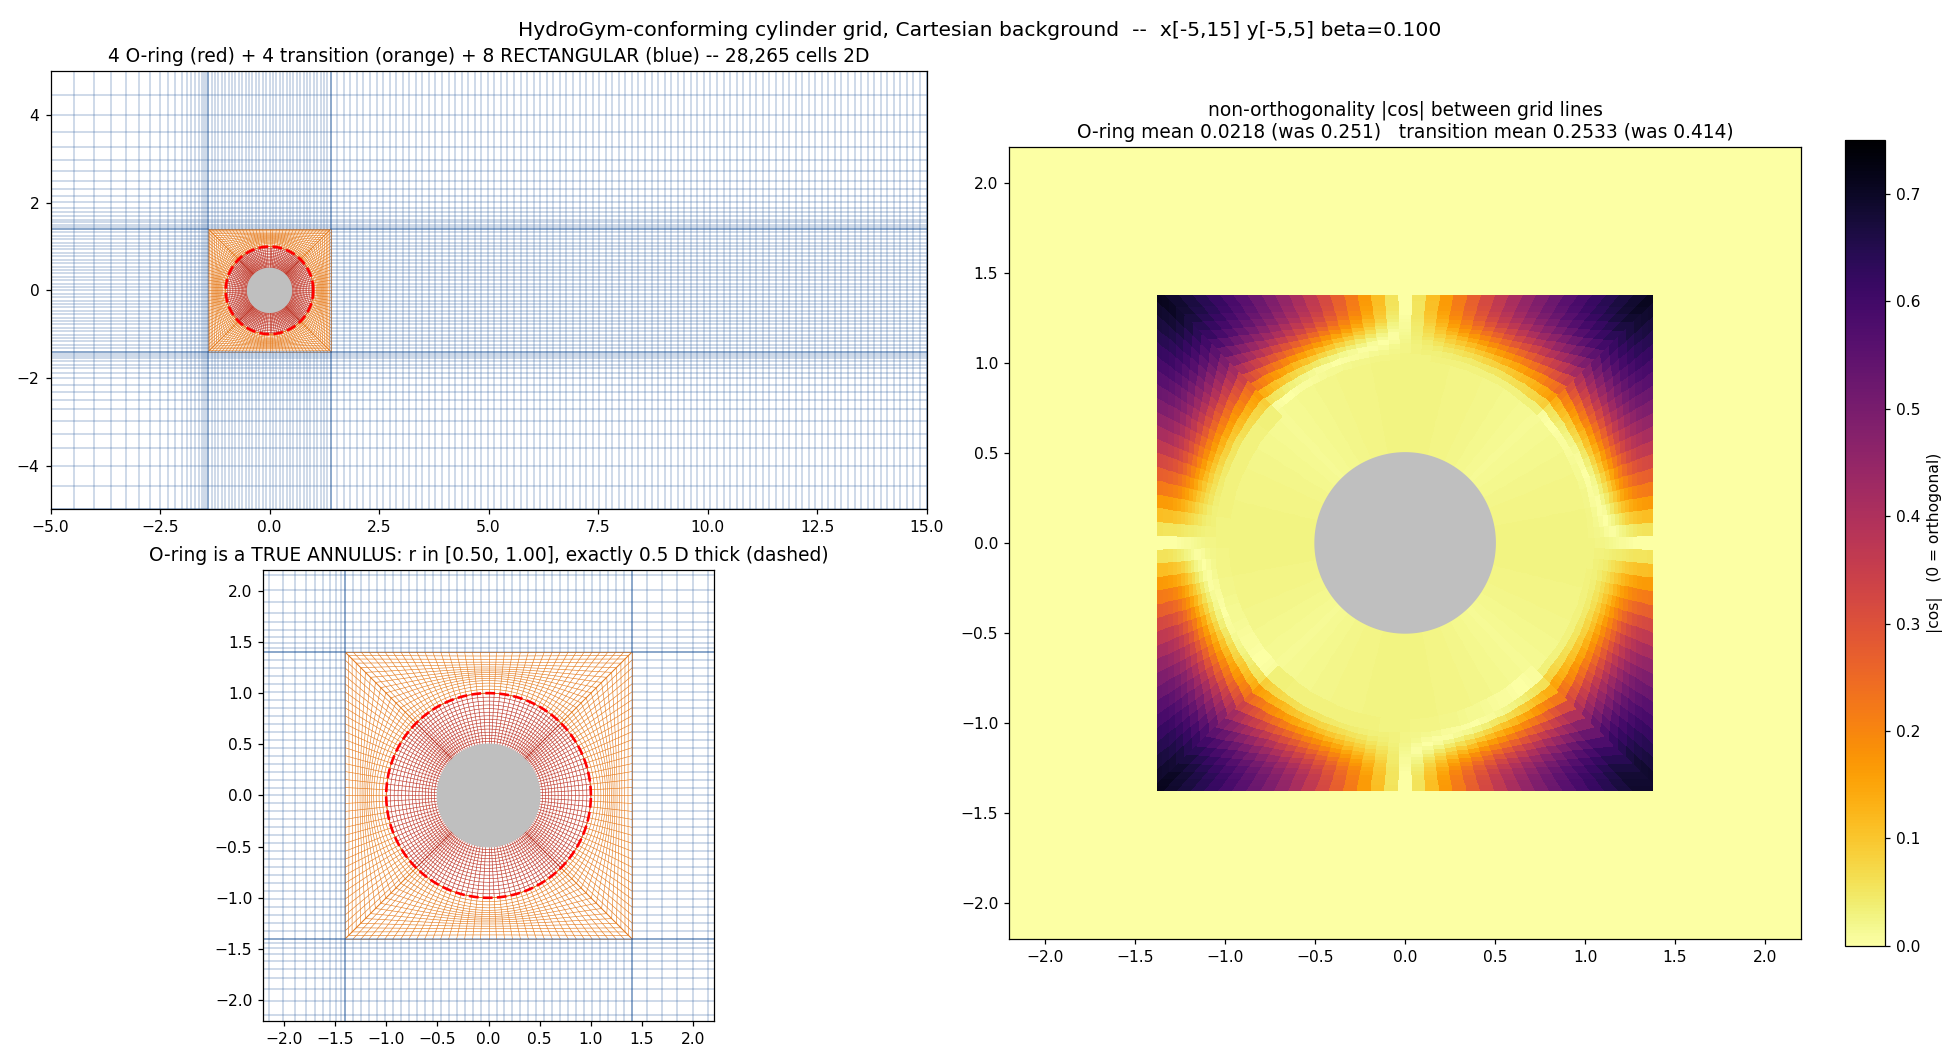
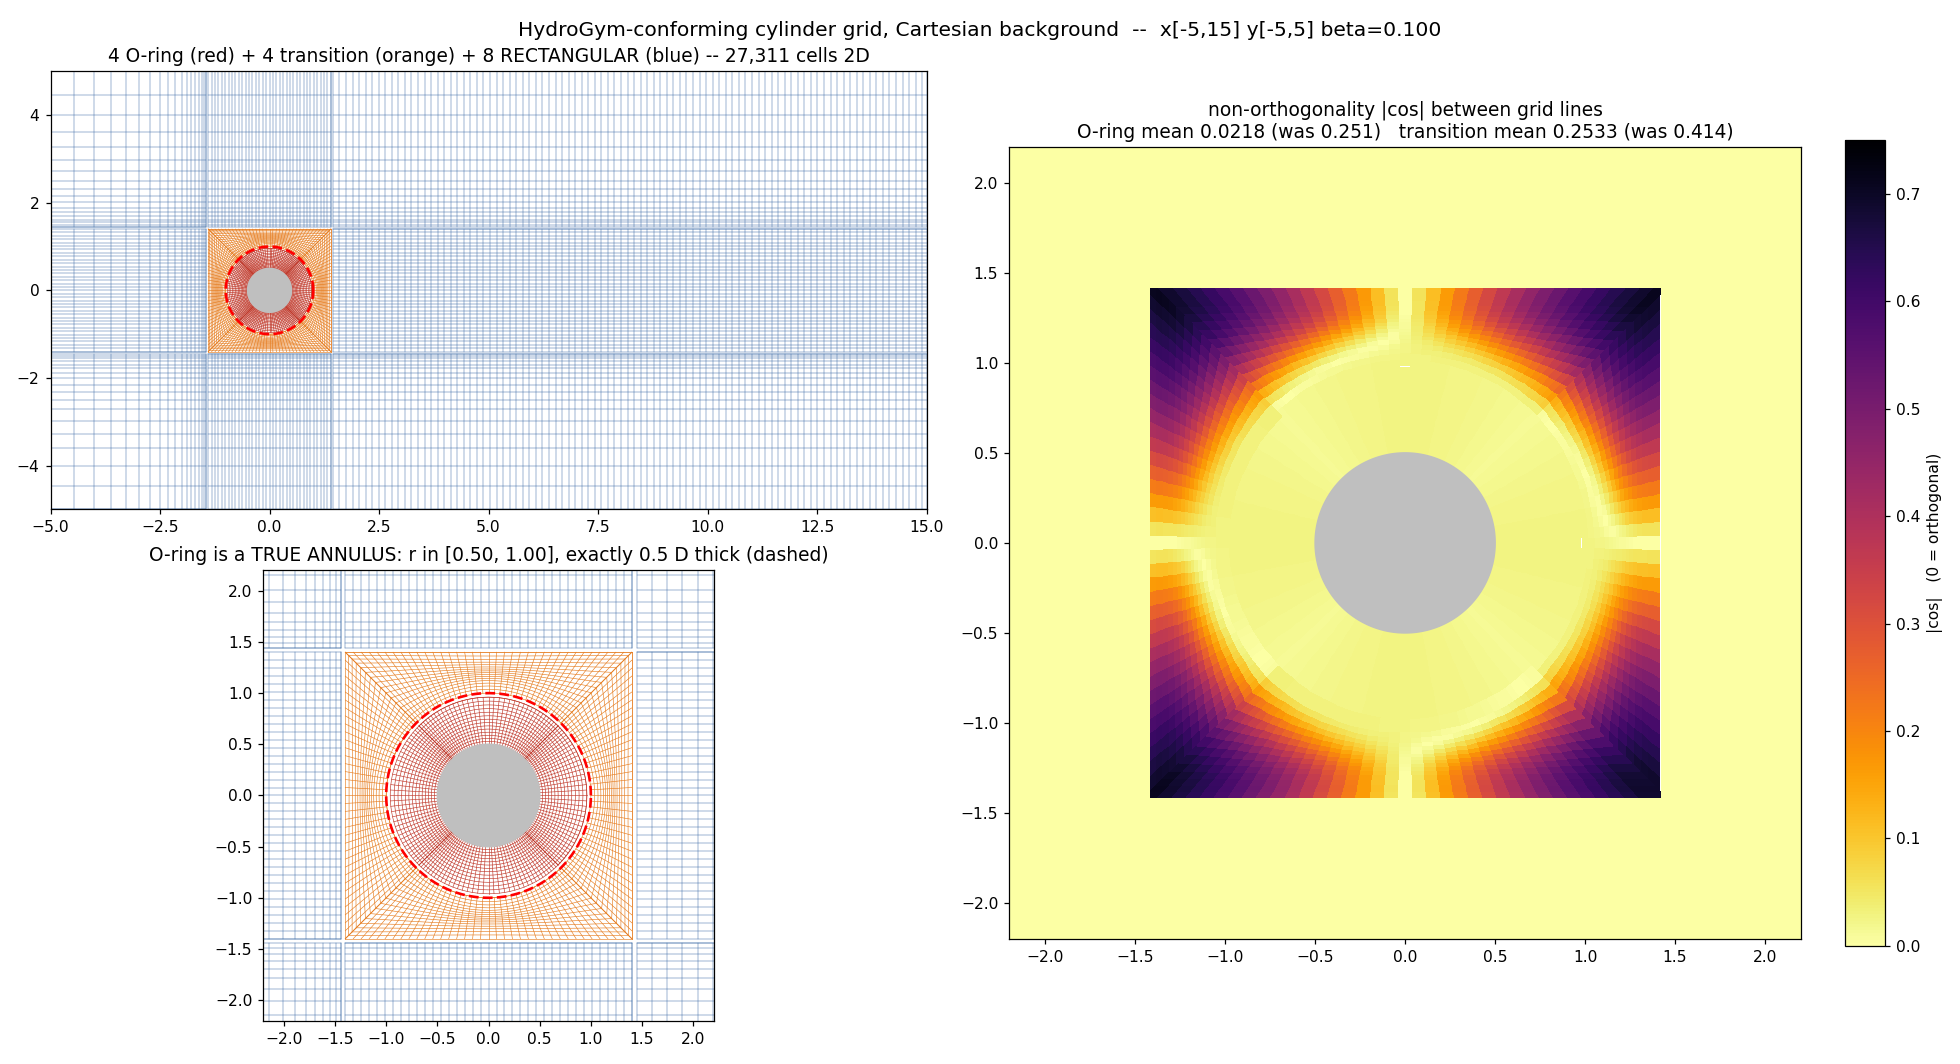
Adjoint plan: status and hand-over block, U8 in three steps; plan row T22; structured DPC trainer --backend amgx flag; refreshed figures

diff --git a/prod_dpc_train.py b/prod_dpc_train.py
@@ -59,7 +59,8 @@ MESHES = {
 }
 
 
-def build(restart=None, mesh="coarse", dt=0.01, picard=2, momdc=2, tol=1e-8):
+def build(restart=None, mesh="coarse", dt=0.01, picard=2, momdc=2, tol=1e-8,
+          backend="scipy"):
     d, idx = ring_rect_domain(**MESHES[mesh])
     kindmap = {"inlet": "inflow", "outlet": "outflow",
                "lateral": "wall", "body": "wall"}
@@ -70,7 +71,7 @@ def build(restart=None, mesh="coarse", dt=0.01, picard=2, momdc=2, tol=1e-8):
     m = MultiBlockPISO(d, NU, dt, 2, tol, time_scheme="bdf2",
                        scheme="rotational", picard_iters=picard, rhie_chow=True,
                        persistent_flux=True, ddt_corr=False,
-                       implicit_cross=True, linear_backend="scipy")
+                       implicit_cross=True, linear_backend=backend)
     m.momentum_dc_iters = momdc
     for b in range(len(d.blocks)):
         m.u[b][:] = U_INF
@@ -144,6 +145,11 @@ def make_policy(nin=453, hidden=64, seed=0):
 
 def main():
     p = argparse.ArgumentParser()
+    p.add_argument("--backend", default="scipy",
+                   help="forward linear backend. 'amgx' puts the PRESSURE solve on the GPU "
+                        "(15x on that bucket); momentum stays on scipy by construction, and "
+                        "the ADJOINT is scipy either way -- it has no GPU path. Run under "
+                        "/usr/bin/python3 in pict-amgx, not the python3 on PATH.")
     p.add_argument("--selftest", action="store_true")
     p.add_argument("--train", action="store_true")
     p.add_argument("--restart", default="results/fields/coarse_dev.npz")
@@ -165,7 +171,7 @@ def main():
     LIFT_W[0] = a.lift_weight
     d, m, tps, body_faces = build(a.restart if a.train else None, mesh=a.mesh,
                                   dt=a.dt, picard=a.picard, momdc=a.momdc,
-                                  tol=a.tol)
+                                  tol=a.tol, backend=a.backend)
     hz = Harness(d, tps, body_faces)
     policy = make_policy()
     if getattr(a, "init", None) and os.path.exists(a.init):

diff --git a/reference/unstructured_adjoint_plan.md b/reference/unstructured_adjoint_plan.md
@@ -6,6 +6,42 @@ unstructured solver nor the Stage 9 adjoint.*
 
 ---
 
+## 0. Status and next steps (2026-09-26, hand-over from the remote session)
+
+| stage | state | evidence |
+|---|---|---|
+| U0–U4 decisions, operators, solves, BDF2 step | ✅ | `test_uadj_ops.py`, `test_uadj_step.py`: the torch step equals production to round-off on six meshes incl. two production cylinder meshes |
+| U5 gradient gates A1–A15 | ✅ | FD vs adjoint ≤ 5e-8 through 1–3 steps, every path live, ⟨w,Jv⟩ = ⟨Jᵀw,v⟩ |
+| U6 forces and actuation | ✅ | wall traction, cylinder jets, HydroGym NACA jets, rotation, inlet gust; symmetry zeros (P5), blowing sign (P6) |
+| U7 memory-flat replay | ✅ | replay == tape to 9e-14; memory flat in the horizon |
+| training bridge (policy in the replayed loop) | ✅ | `uadj_replay.replay_policy_grad`, gates A20–A22 in `test_uadj_train.py`: replay == tape on all parameter gradients to 1e-15, FD 8e-10 |
+| physical tests | 🔧 | P1, P2, P5, P6, P8(a) pass; P4 adjoint = FD (6e-7), 5.5% from the eigenvalue derivative at 48×100 → convergence statement, 96×200 pending; P8(b) pending (run on the Spark); P3, P7, P9–P12 not run |
+| U8 first control result | ▶ next | see below |
+| U9 RK3, U10 2.5D + GPU, U11 cross-code | not started | |
+
+**Environment.** CPU float64; torch ≥ 2 (a torch 1.13 kernel cannot build a tensor from a numpy 2 boolean
+array — the local venv was upgraded to 2.8). Fast suite: ops 1 s, step 15 s, train 4 s.
+
+**U8 in three steps, in order.**
+
+1. **DPC smoke on the coarse cylinder** (`cylinder_butterfly_coarse`, Re 100, ±90° jets, the limit-cycle
+   state `results/uadj_shed_cylinder_butterfly_coarse.npz`): drag over 1, 2 and 4 shedding periods with the
+   pressure-probe policy of `test_uadj_train.py`, Adam, horizon sweep H ∈ {8, 40} control steps of 5 solver
+   steps. Deliverable: loss against iteration and against solver steps consumed; the first check of the
+   FluidGym horizon finding (paper outline C1) on this solver. Budget: ~1 s per solver step forward+backward
+   on the CPU, so a 40-step horizon is ~3–4 min per gradient; 50 iterations in an afternoon.
+2. **NACA α 40° gust task** (`naca_env.py`, 8,260 cells): the same observation (probe velocity) and reward
+   (−|ΔC_L| − 0.25 |ΔC_D|) as the PPO run of record §56, the gust as the inlet modulation of U6. One
+   gradient through H = 40 actions × 54 steps is ~25–35 min on the CPU; 30–50 iterations is 1–2 days, so
+   this either runs on the Spark's cores or waits for U10's GPU path. ≥ 3 seeds each side.
+3. **The comparison** with the same evaluation protocol as PPO (deterministic policy, the fixed gust
+   episode, `eval_naca_policy.py`): return, C_L excursion, and the two efficiencies — solver steps consumed
+   and wall-clock to a given return. Expected: DPC one to two orders of magnitude fewer solver steps, slower
+   in wall-clock until the GPU port.
+
+**Remaining effort** (from the table in §4, U0–U7 spent): U8 1–2 weeks, U9 1 week, U10 3–4 weeks, U11 ½ week;
+the physical tests 1 week spread over them.
+
 ## 1. What exists, and what carries over
 
 **The structured adjoint (Stage 9, `reference/production_adjoint.md`)** differentiates one

diff --git a/reference/unstructured_plan.md b/reference/unstructured_plan.md
@@ -111,6 +111,7 @@ Every gate runs at `perturb=0` AND `perturb>0`.
 | T19 | channel Re_τ 395 (MKM 1999 reference, 96×160 × 128 modes, minimal box) | the first LES beyond the validation Re | **done (§63)**: Re_τ 393.4 (+0.3%), U⁺ log region +0.6%, u'⁺ peak −1.9%, −u'v'⁺ −0.9%, two-colour 0.00%; streak spacing ≈ 100⁺; core departure above y⁺ 150 = the minimal-box 0.3 L_z limit (Flores & Jiménez 2010); 7.8 h on the A100 across three Colab session losses with the mean shifted to MKM's; 2.1–2.8 s/step on the GB10, to be run on the A100 |
 | T20 | fluidic pinball (three cylinders) on HydroGym's medium triangle mesh, Re 30 and 100, against their Firedrake P2-P1 from the same start | a genuinely multi-body unstructured case; the reference's dependence on its start | **done (§62)**: Re 100 shedding: St 0.1110 vs 0.1112, total C_D +1.0%, per-cylinder drag +0.9–1.2%, lift amplitudes within 3%; Re 30: both solvers find the same growing far-wake oscillation (f 0.081, amplitudes 0.06) from the impulsive start while the Newton steady state is the symmetric branch — lift histories coincide, drag +1.1%. Meshes `meshes/pinball_medium.msh`, `pinball_fine.msh`; drivers `run_upinball.py`, `tools/hydrogym_cmp/hg_pinball.py` |
 | T21 | V3: cylinder Re 3900 on a purpose-built quad butterfly (60k cells, wall 0.003 D) × 64 planes, WALE, A100 notebook | St 3%, C_D 5%, L_r 10% of the Parnaudeau band | **prepared (§64)**: mesh, driver with statistics/restart, notebook `tools/a100/A100_cylinder_re3900.ipynb`, GB10 profile 3.1 s/step (~0.85 on the A100, 15–20 h); WALE must start at t = 2 |
+| T22 | discrete adjoint of the unstructured PISO step in torch, with a policy-in-the-loop replay for training (`reference/unstructured_adjoint_plan.md`) | step = production to round-off; FD-certified gradients; replay == tape; a first control result (U8) | **U0–U7 + training bridge done 2026-09-26** (`src/uadj_*.py`, `test_uadj_*.py`); U8 DPC on the coarse cylinder then the NACA gust task is next |
 | T10 | NACA0012, Re=100, α=20° (HydroGym's airfoil case, their solver is m-AIA-only) | **done (§45)**: steady; C_D 0.5703 / C_L 0.7729 vs HydroGym config 0.577 / 0.783 (−1.2/−1.3%), L/D 1.355 vs 1.357; self-made elliptic C-grid 33k quads (`meshes/gen_naca_cgrid.py`, `run_uairfoil.py`). **α=40° (§46): shedding, St_c 0.2331 (St_h 0.150), C_D 1.068 / C_L 1.010 vs HydroGym 1.081 / 1.027 (−1.2/−1.6%)**. Open: far-field R=16 and one refinement; **both T10 runs used the lagged convecting flux (pre-§47 default) and need rerunning with `conv_flux_extrap` before their 1.3% agreement is claimed time-converged** |
 
 **T3 and T4 must be separated.** A scheme that is second order in space and first in time still
